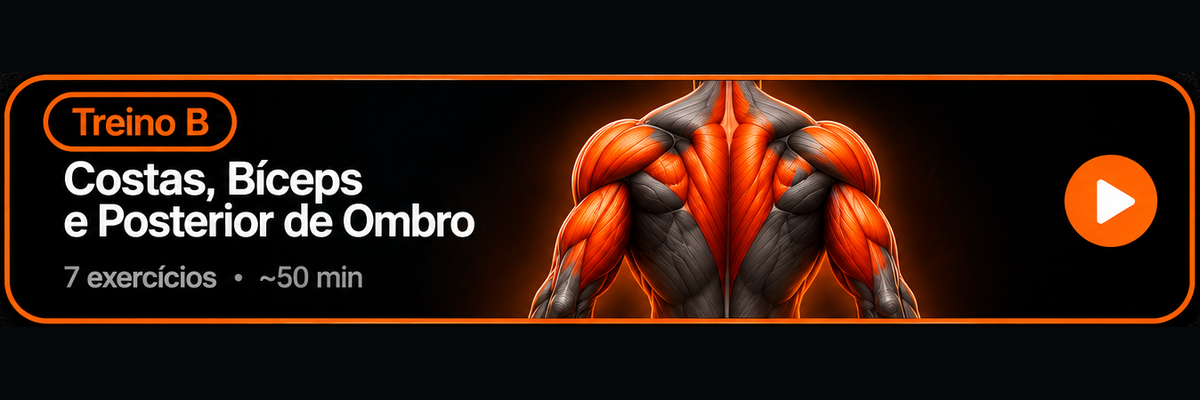
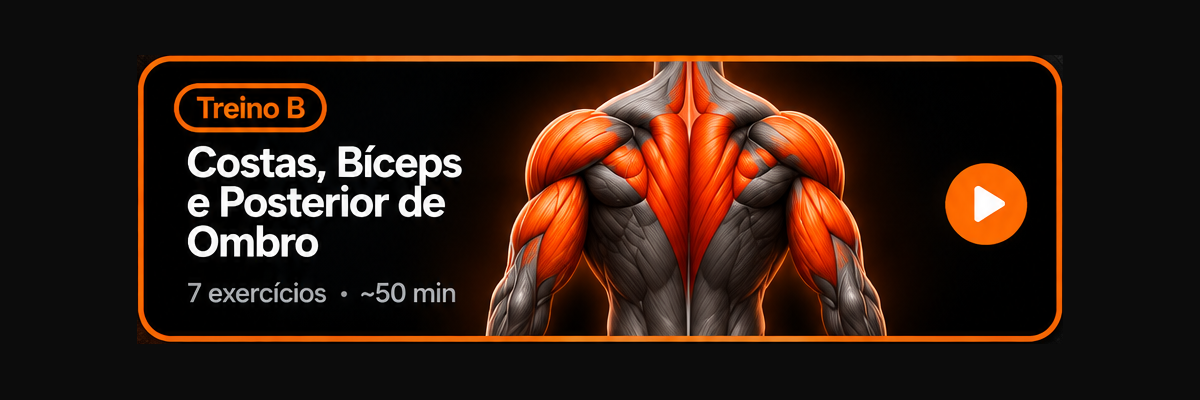
Amplia cartões de treino preservando imagens aprovadas e proporções

diff --git a/src/styles.css b/src/styles.css
@@ -3267,8 +3267,9 @@ img.anatomy {
   padding-right: env(safe-area-inset-right, 0px);
   overflow-x: clip;
 }
-.workout-card.asset-workout-card { padding: 0; height: auto; align-self: start; border: 0; }
-.workout-card-image { border-radius: inherit; height: auto; aspect-ratio: auto; object-fit: contain; }
+.workout-card.asset-workout-card { padding: 0; height: auto; aspect-ratio: 13 / 5; display: grid; place-items: center; align-self: start; border: 0; background: #0b0b0b; }
+/* The approved 1200px images have empty side margins; keep all artwork visible. */
+.workout-card-image { width: calc(100% * 1200 / 940); max-width: none; border-radius: inherit; height: auto; aspect-ratio: auto; object-fit: contain; }
 .workout-overview .detail-art { height: 155px; padding: 0; }
 .workout-overview .detail-art::after { content: none; }
 .workout-overview .detail-art img.anatomy { width: 100%; height: 100%; inset: 0; object-fit: contain; }
